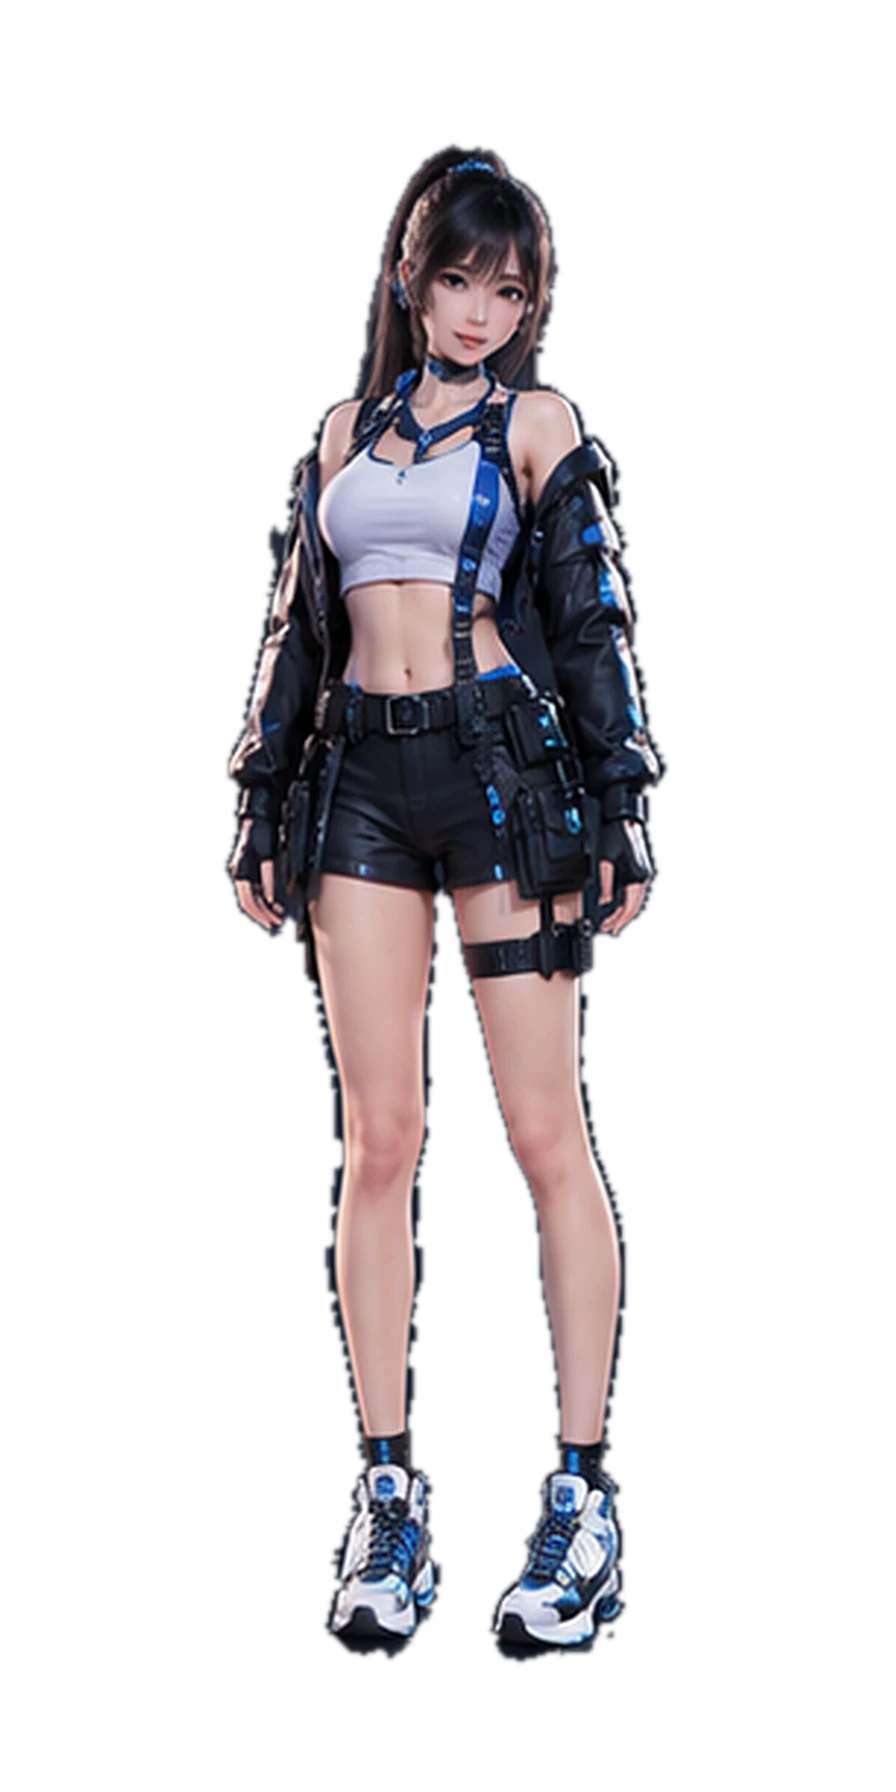
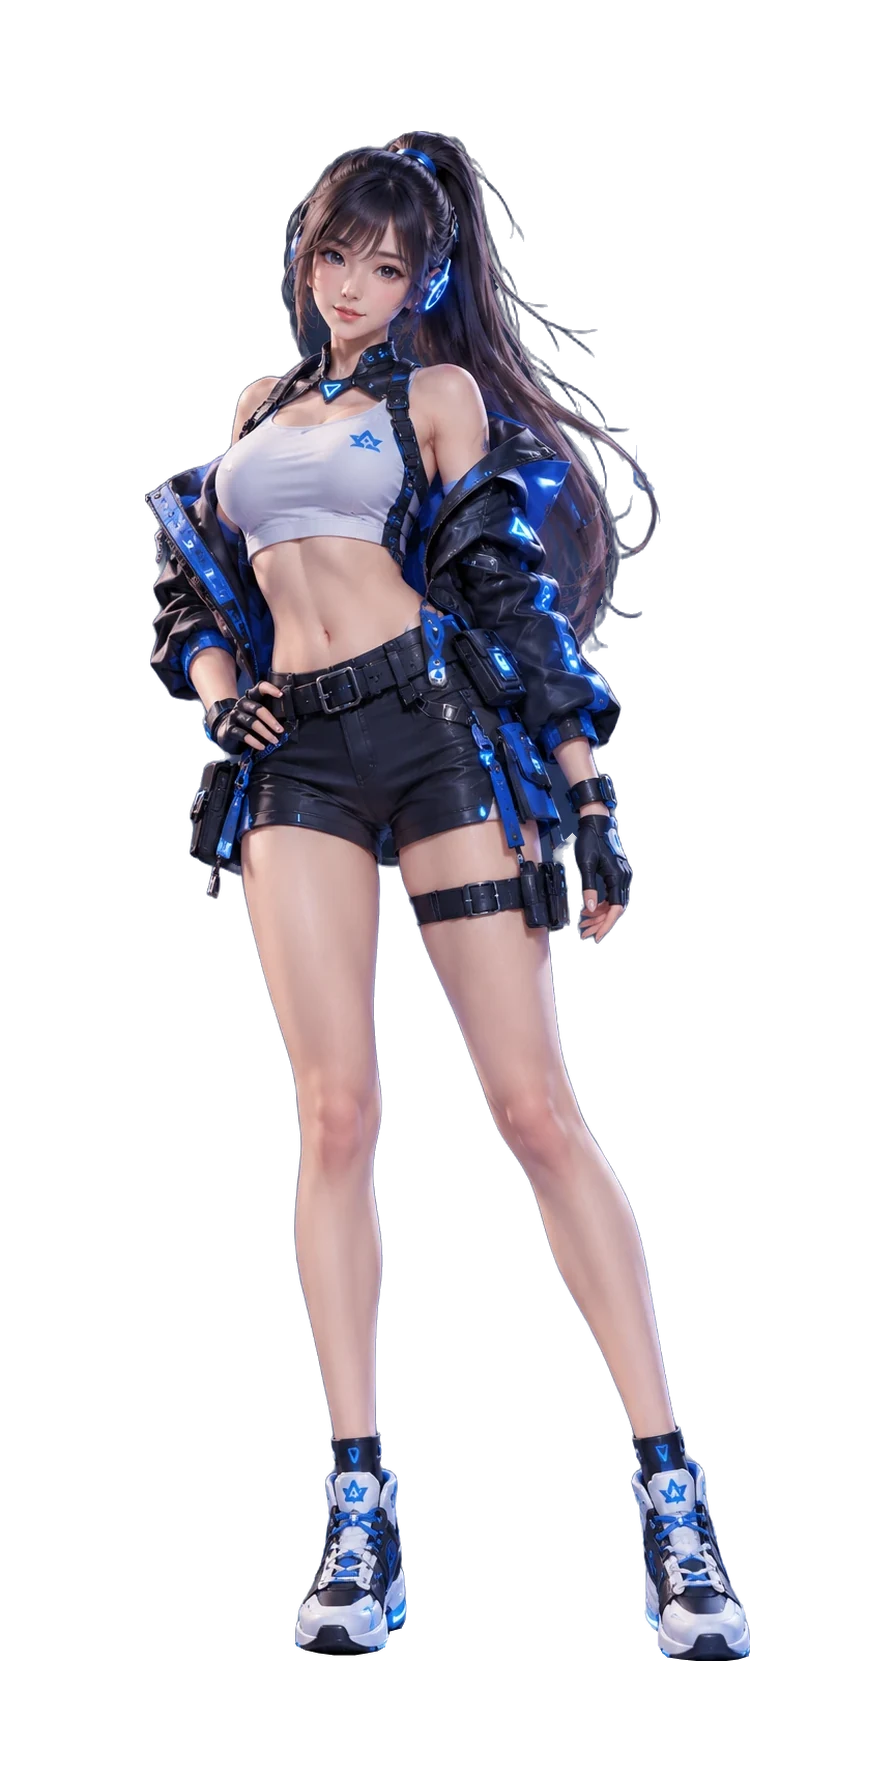
Use Aoi's newest full-body shot on the landing page
Cut her out of the new source image instead of generating from the sheet,
tracing each sole so the shiny floor's reflection stays behind. She stands
wider than the old art, so the stage's edge feather no longer fades her
right shoe and the verb chips sit beside her shins, clear of her shoes.

Changed region(s): [[0.1562, 0.0625, 0.8438, 0.9375]]

diff --git a/web/src/styles/landing.css b/web/src/styles/landing.css
@@ -274,10 +274,10 @@
 .meet-full {
   position: absolute; z-index: 1; left: 50%; bottom: 0; transform: translateX(-50%);
   height: 100%; width: auto; max-width: none;
-  /* the art may sit on a dark plate or be transparent: feather all four edges */
-  -webkit-mask-image: linear-gradient(90deg, transparent, #000 24%, #000 76%, transparent), linear-gradient(180deg, transparent 2%, #000 14%, #000 90%, transparent);
+  /* the art may sit on a dark plate or be transparent: feather the edges, outside the figure (16%-84% across, 7%-93% down) */
+  -webkit-mask-image: linear-gradient(90deg, transparent, #000 15%, #000 85%, transparent), linear-gradient(180deg, transparent 2%, #000 7%, #000 94%, transparent);
   -webkit-mask-composite: source-in;
-  mask-image: linear-gradient(90deg, transparent, #000 24%, #000 76%, transparent), linear-gradient(180deg, transparent 2%, #000 14%, #000 90%, transparent);
+  mask-image: linear-gradient(90deg, transparent, #000 15%, #000 85%, transparent), linear-gradient(180deg, transparent 2%, #000 7%, #000 94%, transparent);
   mask-composite: intersect;
 }
 .meet-full-fb {
@@ -286,7 +286,7 @@
   border: 1px solid var(--line-strong); display: grid; place-items: center;
 }
 .meet-full-fb span { font-family: var(--font-serif); font-size: 160px; color: var(--ice-50); text-shadow: 0 0 40px var(--blue-500); }
-.meet-verbs { position: absolute; z-index: 2; right: 0; bottom: 8%; list-style: none; margin: 0; padding: 0; display: grid; gap: 8px; justify-items: end; }
+.meet-verbs { position: absolute; z-index: 2; right: 0; bottom: 22%; list-style: none; margin: 0; padding: 0; display: grid; gap: 8px; justify-items: end; }
 .meet-verbs li {
   padding: 8px 18px; border-radius: 999px; background: rgba(10, 16, 32, .72); border: 1px solid var(--line-strong);
   -webkit-backdrop-filter: blur(10px); backdrop-filter: blur(10px);
@@ -727,8 +727,8 @@
   .pk { aspect-ratio: 4 / 5; --cw: min(10.5cqw, 9cqh); }
   .pk-felt { left: 5%; right: 5%; top: 12%; bottom: 12%; }
   .pk-tip { max-width: 84%; }
-  .meet-verbs { right: 0; bottom: 2%; }
-  .meet-verbs li { font-size: 11px; padding: 6px 12px; }
+  .meet-verbs { right: 0; }
+  .meet-verbs li { font-size: 11px; padding: 6px 12px; transform: translateX(calc(var(--i) * -6px)); }
 }
 @media (max-width: 520px) {
   .roster { grid-template-columns: 1fr; }

diff --git a/scripts/gen-art/full_cutout.py b/scripts/gen-art/full_cutout.py
@@ -1,0 +1,74 @@
+"""Aoi's full-length art, cut out of docs/assets/aoi-full-source.webp.
+
+    pip install rembg==2.0.61 onnxruntime scipy
+    python scripts/gen-art/full_cutout.py
+
+No generation: the figure is the source image's own, with its background, text and floor
+reflection removed. Saved as a transparent cut-out at the old art's size and position
+(896x1792, figure 1530px tall from y=131), so it sits on whatever stage the page draws
+behind it.
+"""
+import os
+
+import numpy as np
+from PIL import Image
+from rembg import new_session, remove
+from scipy import ndimage
+
+ROOT = os.path.normpath(os.path.join(os.path.dirname(os.path.abspath(__file__)), "..", ".."))
+SOURCE = os.path.join(ROOT, "docs", "assets", "aoi-full-source.webp")
+OUT = os.path.join(ROOT, "web", "public", "play", "aoi", "aoi-full.webp")
+
+# The floor shines, so the models keep each shoe's reflection. These are the shoes' lower
+# edges, traced by hand on the source as x, y.
+SOLES = (
+    ((400, 1474), (404, 1480), (412, 1484), (425, 1487), (440, 1489), (460, 1489), (472, 1487),
+     (482, 1485), (489, 1481), (492, 1472), (494, 1466), (505, 1463), (512, 1450)),
+    ((738, 1450), (748, 1464), (752, 1466), (753, 1480), (757, 1487), (762, 1491), (775, 1493),
+     (795, 1495), (815, 1495), (830, 1493), (840, 1490), (842, 1484), (845, 1470), (848, 1450)),
+)
+FLOOR = 1450  # below this there's only her shoes
+W, H, FIG_H, FIG_Y = 896, 1792, 1530, 131
+
+
+def cut_soles(a):
+    below = np.zeros(a.shape)  # how much of each pixel is shoe, below the floor line
+    ys = np.arange(a.shape[0])
+    for sole in SOLES:
+        xs, edge = zip(*sole)
+        for x in range(xs[0], xs[-1] + 1):
+            below[:, x] = np.clip(np.interp(x, xs, edge) + 0.5 - ys, 0, 1)
+    a[FLOOR:] = (a * below)[FLOOR:].astype(np.uint8)
+    return a
+
+
+def main():
+    src = Image.open(SOURCE).convert("RGB")
+    # One model keeps her flying hair, the other her jacket. Together they miss neither.
+    a = np.zeros((src.height, src.width), np.uint8)
+    for model in ("isnet-anime", "isnet-general-use"):
+        a = np.maximum(a, np.asarray(remove(src, session=new_session(model), only_mask=True, post_process_mask=False)))
+    a = cut_soles(a)
+
+    # Only what's joined to her stays, which drops scraps of the signature and the panels.
+    lab, _ = ndimage.label(a > 40)
+    her = lab == np.argmax(np.bincount(lab[lab > 0]))
+    a = np.where(her, a, 0)
+    # Blue jacket on a blue wall reads as half see-through, so inside her is solid.
+    core = ndimage.binary_erosion(her, iterations=10)
+    a = np.where(core, 255, a)
+
+    fig = src.copy()
+    fig.putalpha(Image.fromarray(a.astype(np.uint8)))
+    x0, y0, x1, y1 = fig.getchannel("A").point(lambda v: 255 if v > 128 else 0).getbbox()
+    fig = fig.crop((x0, y0, x1, y1))
+    scale = FIG_H / fig.height
+    fig = fig.resize((round(fig.width * scale), FIG_H), Image.LANCZOS)
+    out = Image.new("RGBA", (W, H), (0, 0, 0, 0))
+    out.paste(fig, ((W - fig.width) // 2, FIG_Y))
+    out.save(OUT, quality=88, method=6)
+    print(OUT, out.size, out.getchannel("A").getbbox(), os.path.getsize(OUT), "bytes")
+
+
+if __name__ == "__main__":
+    main()

diff --git a/scripts/gen-art/post.py b/scripts/gen-art/post.py
@@ -38,7 +38,7 @@ def save(img, path, q=84, limit_kb=None):
 
 
 # --- generated, reference-image based ---------------------------------------
-# aoi-full.webp is cut from the sheet itself: see full_from_sheet.py.
+# aoi-full.webp is cut from the sheet itself: see full_cutout.py.
 save(Image.open(RAW / 'portrait-clean.png').convert('RGB'), AOI / 'aoi-portrait.webp', 90, 300)
 save(Image.open(RAW / 'card.png').convert('RGB'), AOI / 'aoi-card.webp', 90, 340)
 

diff --git a/web/public/play/CREDITS.md b/web/public/play/CREDITS.md
@@ -2,12 +2,12 @@
 
 Source: `docs/assets/aoi-character-sheet.webp`, Aoi's official character sheet.
 Generation: DashScope (Alibaba Model Studio). Scripts are in `scripts/gen-art/`.
-Run them in this order: `gen.py portrait-clean`, `gen.py card table av-ren av-mika av-bram av-nova av-lin face-smile face2-neutral face2-wink face2-surprised face2-angry face2-sad outfit-default outfit-casual outfit-combat outfit-summer`, `post.py`, then `full_from_sheet.py` (no generation).
+Run them in this order: `gen.py portrait-clean`, `gen.py card table av-ren av-mika av-bram av-nova av-lin face-smile face2-neutral face2-wink face2-surprised face2-angry face2-sad outfit-default outfit-casual outfit-combat outfit-summer`, `post.py`, then `full_cutout.py` (no generation).
 The key comes from `PLAY_IMAGE_API_KEY`. In total, 37 generation calls were made.
 
 | File | How it was made |
 |---|---|
-| aoi/aoi-full.webp | **No generation.** The sheet's own FRONT turnaround (sheet 420,50–600,600), masked off its panel, upscaled ~2.9x (Lanczos + light unsharp), transparent background (896x1792). Made by `scripts/gen-art/full_from_sheet.py`. |
+| aoi/aoi-full.webp | **No generation.** Cut out of `docs/assets/aoi-full-source.webp` with rembg (isnet-anime and isnet-general-use), which removes its background, text and floor reflection. Transparent background (896x1792). Made by `scripts/gen-art/full_cutout.py`. |
 | aoi/aoi-portrait.webp | **qwen-image-edit** on the left portrait (sheet 0,0–432,656, 2x). The instruction removed the HEROES AGENT logo, the Japanese text and the "Player" signature. Everything else was kept. |
 | aoi/aoi-card.webp | **wan2.5-i2i-preview** with references to the cleaned portrait and face (1024x1536). The prompt asked for upper body, a fan of playing cards, a blue rim light, a warm ember glow and floating embers on a dark background. |
 | aoi/aoi-face-*.webp | **wan2.5-i2i-preview**, 1024², best of 2, then the same square crop for all six and export at 768x768. The smile master (`face-smile`) used two references: the cleaned HD portrait for identity and the sheet's Smile tile (4x) for the expression. The other five (`face2-*`) used two references: that smile master, for the same rendering, framing and outfit, and the matching sheet tile. The prompt changed only the expression. "Angry" is a playful pout. |
